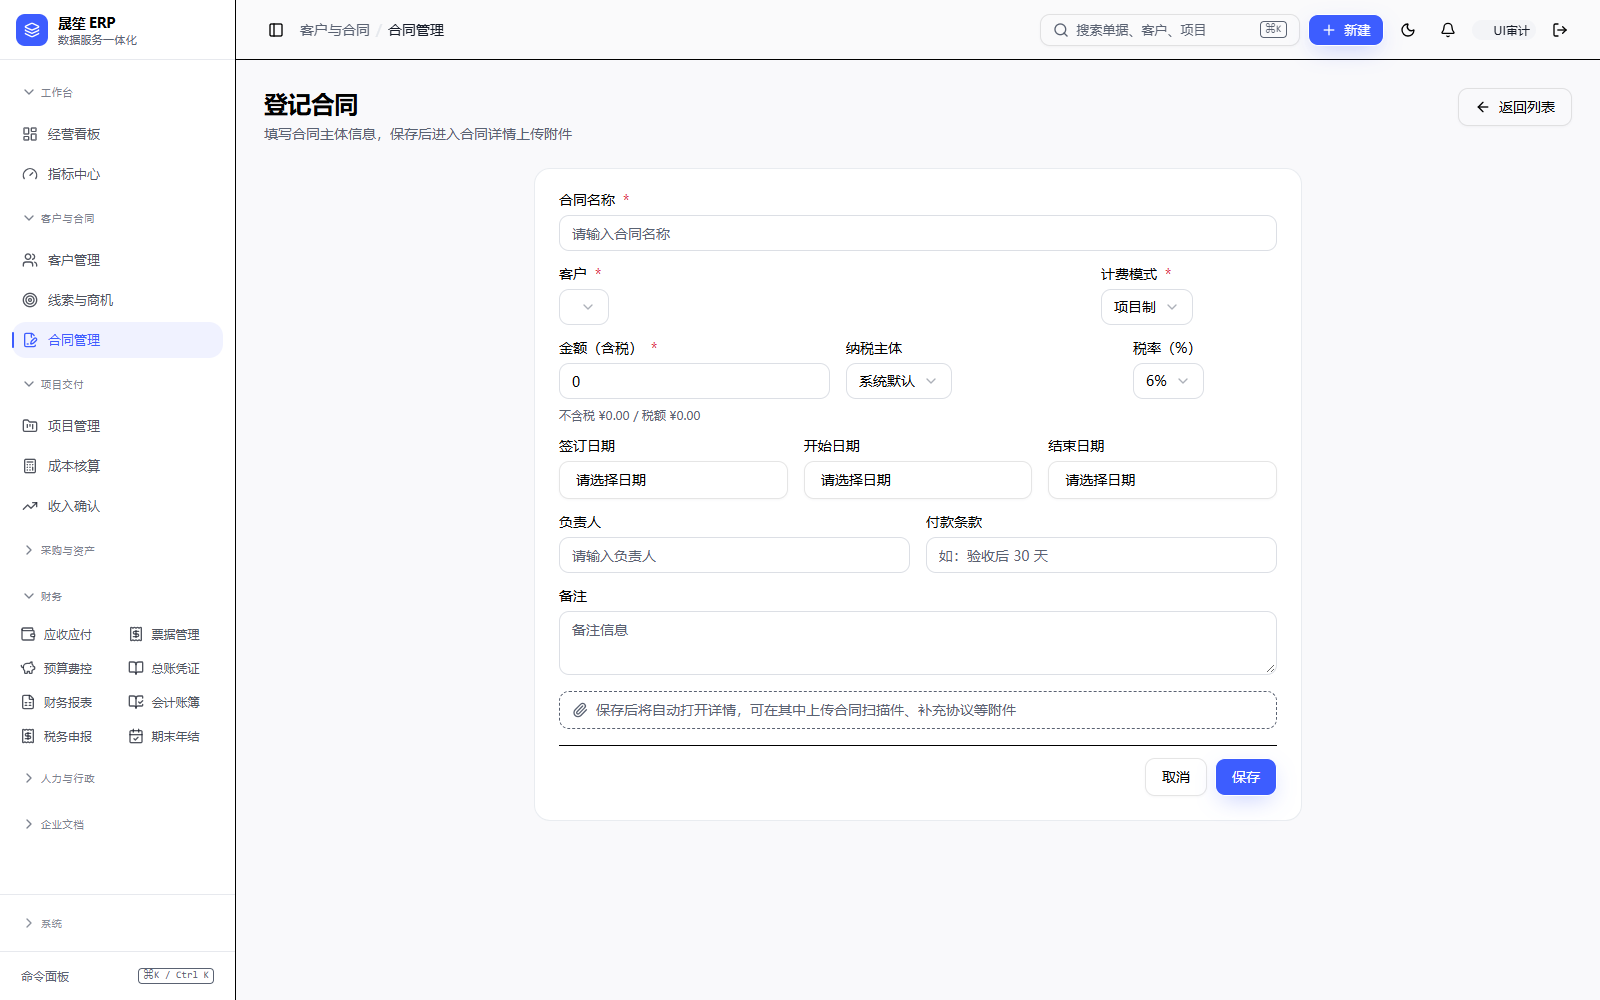
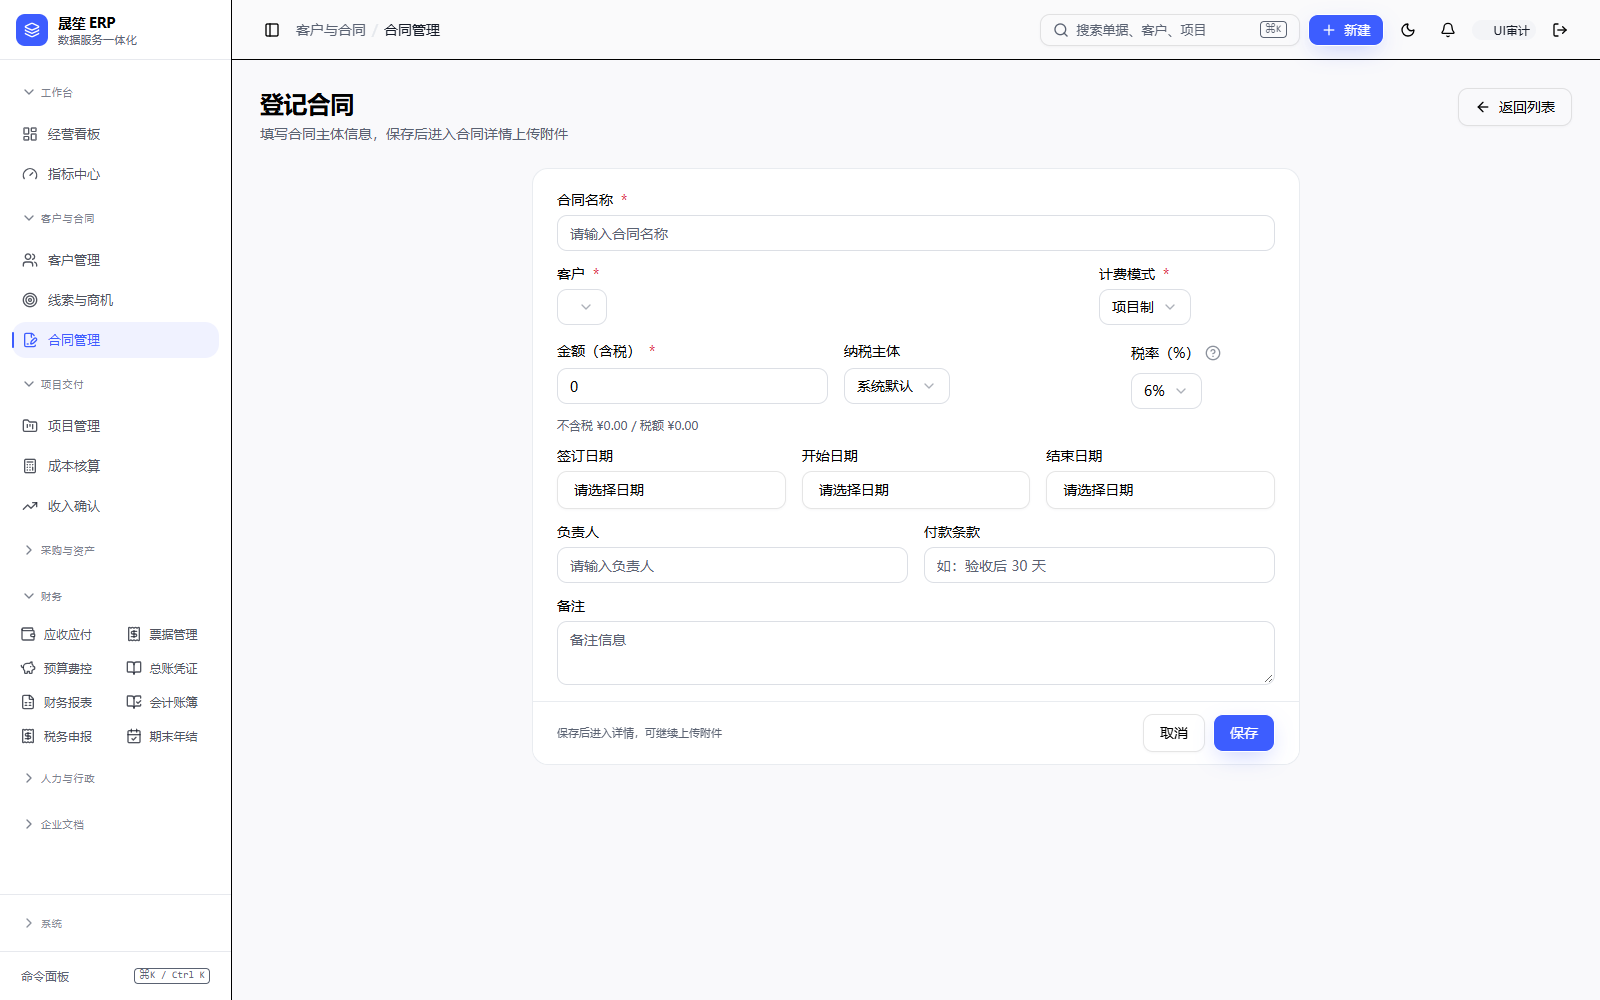
feat(ui): 表单吸底操作栏与重复提示收敛

diff --git a/client/src/pages/contracts/ContractFormDialog.tsx b/client/src/pages/contracts/ContractFormDialog.tsx
@@ -42,7 +42,7 @@ import { useForm } from 'react-hook-form';
 import { toast } from 'sonner';
 import DateField from '@client/src/components/erp/DateField';
 import FieldHelp from '@client/src/components/erp/FieldHelp';
-import AttachmentHint from '@client/src/components/attachments/AttachmentHint';
+import StickyActionBar from '@client/src/components/erp/StickyActionBar';
 import { Button } from '@client/src/components/ui/button';
 import {
   Dialog,
@@ -451,21 +451,28 @@ const ContractFormDialog: React.FC<ContractFormDialogProps> = ({
                 </FormItem>
               )}
             />
-            <AttachmentHint
-              text={
-                editTarget
-                  ? '保存后返回列表，可在合同详情中上传合同扫描件、补充协议等附件'
-                  : '保存后将自动打开详情，可在其中上传合同扫描件、补充协议等附件'
-              }
-            />
-            <div className="flex justify-end gap-2 border-t pt-3">
-              {asPage && onCancel ? (
-                <Button type="button" variant="outline" onClick={onCancel}>
-                  取消
+
+            {asPage ? (
+              <StickyActionBar
+                variant="card"
+                hint="保存后进入详情，可继续上传附件"
+              >
+                {onCancel ? (
+                  <Button type="button" variant="outline" onClick={onCancel}>
+                    取消
+                  </Button>
+                ) : null}
+                <Button type="submit">
+                  {editTarget ? '保存修改' : '保存'}
                 </Button>
-              ) : null}
-              <Button type="submit">{editTarget ? '保存修改' : '保存'}</Button>
-            </div>
+              </StickyActionBar>
+            ) : (
+              <div className="flex justify-end gap-2 border-t pt-3">
+                <Button type="submit">
+                  {editTarget ? '保存修改' : '保存'}
+                </Button>
+              </div>
+            )}
           </form>
         </Form>
   );
@@ -493,4 +500,6 @@ const ContractFormDialog: React.FC<ContractFormDialogProps> = ({
 };
 
 export default ContractFormDialog;
+
+
 

diff --git a/client/src/pages/projects/ProjectCreatePage.tsx b/client/src/pages/projects/ProjectCreatePage.tsx
@@ -5,9 +5,9 @@ import { useForm, useWatch } from 'react-hook-form';
 import { z } from 'zod';
 import { toast } from 'sonner';
 import { ArrowLeft } from 'lucide-react';
-import AttachmentHint from '@client/src/components/attachments/AttachmentHint';
 import DateField from '@client/src/components/erp/DateField';
 import PageShell from '@client/src/components/PageShell';
+import StickyActionBar from '@client/src/components/erp/StickyActionBar';
 import { Button } from '@client/src/components/ui/button';
 import {
   Form,
@@ -339,13 +339,20 @@ const ProjectCreatePage: React.FC = () => {
                 </FormItem>
               )}
             />
-            <AttachmentHint text="保存后进入项目详情页，可上传立项文档等附件" />
-            <div className="flex justify-end gap-2">
-              <Button type="button" variant="outline" onClick={() => navigate('/projects')}>
+
+            <StickyActionBar
+              variant="card"
+              hint="保存后进入项目详情，可继续上传立项文档"
+            >
+              <Button
+                type="button"
+                variant="outline"
+                onClick={() => navigate('/projects')}
+              >
                 取消
               </Button>
               <Button type="submit">立项</Button>
-            </div>
+            </StickyActionBar>
           </form>
         </Form>
         </div>
@@ -355,6 +362,8 @@ const ProjectCreatePage: React.FC = () => {
 };
 
 export default ProjectCreatePage;
+
+
 
 
 

diff --git a/client/src/pages/finance/InvoiceCreatePage.tsx b/client/src/pages/finance/InvoiceCreatePage.tsx
@@ -6,7 +6,7 @@ import { z } from 'zod';
 import { toast } from 'sonner';
 import { ArrowLeft } from 'lucide-react';
 import PageShell from '@client/src/components/PageShell';
-import AttachmentHint from '@client/src/components/attachments/AttachmentHint';
+import StickyActionBar from '@client/src/components/erp/StickyActionBar';
 import FieldHelp from '@client/src/components/erp/FieldHelp';
 import { Button } from '@client/src/components/ui/button';
 import {
@@ -419,8 +419,11 @@ const InvoiceCreatePage: React.FC = () => {
                 </FormItem>
               )}
             />
-            <AttachmentHint text="保存后进入详情页，可上传发票扫描件或登记飞书云文档链接" />
-            <div className="flex justify-end gap-2 border-t pt-3">
+
+            <StickyActionBar
+              variant="card"
+              hint="保存后进入详情，可继续上传发票附件"
+            >
               <Button
                 type="button"
                 variant="outline"
@@ -429,7 +432,7 @@ const InvoiceCreatePage: React.FC = () => {
                 取消
               </Button>
               <Button type="submit">保存</Button>
-            </div>
+            </StickyActionBar>
           </form>
         </Form>
         </div>
@@ -439,6 +442,8 @@ const InvoiceCreatePage: React.FC = () => {
 };
 
 export default InvoiceCreatePage;
+
+
 
 
 

diff --git a/client/src/components/erp/StickyActionBar.tsx b/client/src/components/erp/StickyActionBar.tsx
@@ -5,22 +5,28 @@ interface StickyActionBarProps {
   children: React.ReactNode;
   /** 左侧状态/未保存提示 */
   hint?: React.ReactNode;
+  /** page：直接挂在 PageShell；card：挂在 p-6 的表单卡片内 */
+  variant?: 'page' | 'card';
   className?: string;
 }
 
 /**
  * 表单页底部吸底操作栏。
  *
- * 使用方式：放在页面主内容之后、PageShell 内；左侧放状态提示，右侧放动作。
+ * 使用方式：放在表单末尾；左侧放状态提示，右侧放动作。
  */
 const StickyActionBar: React.FC<StickyActionBarProps> = ({
   children,
   hint,
+  variant = 'page',
   className,
 }) => (
   <div
     className={cn(
-      'sticky bottom-0 z-10 -mx-7 mt-2 border-t border-border/80 bg-card/95 px-7 py-3 backdrop-blur',
+      'sticky bottom-0 z-10 border-t border-border/80 bg-card/95 py-3 backdrop-blur',
+      variant === 'page'
+        ? '-mx-7 mt-2 px-7'
+        : '-mx-6 -mb-6 mt-4 rounded-b-xl px-6',
       className,
     )}
   >
